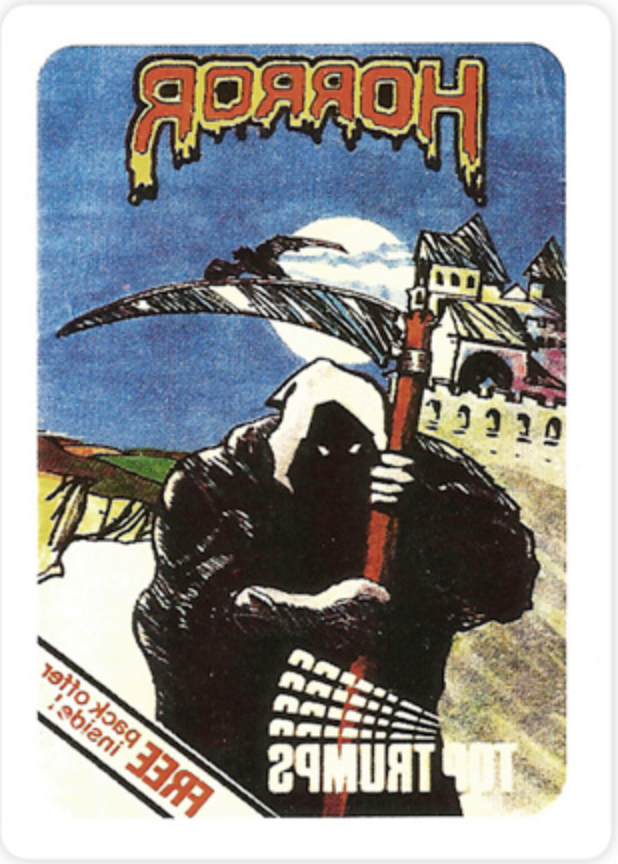
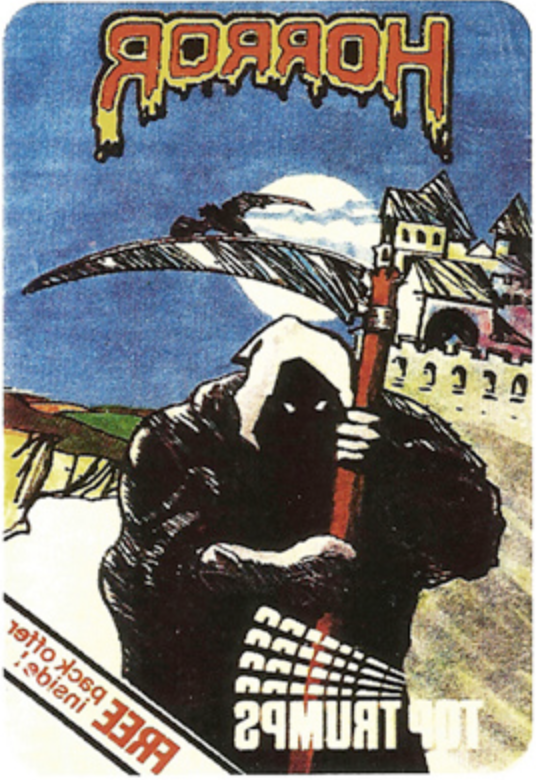
More work on card styling

diff --git a/public/js/app.js b/public/js/app.js
@@ -56012,7 +56012,7 @@ var Monster = function (_Component) {
                         'Physical Strength:',
                         __WEBPACK_IMPORTED_MODULE_0_react___default.a.createElement(
                             'button',
-                            { type: 'button', className: 'btn btn-danger', onClick: function onClick() {
+                            { type: 'button', className: 'btn attribute-button', onClick: function onClick() {
                                     return _this2.props.handleClick({ physical_strength: _this2.props.monster.physical_strength });
                                 } },
                             this.props.monster.physical_strength
@@ -56024,7 +56024,7 @@ var Monster = function (_Component) {
                         'Fear Factor:',
                         __WEBPACK_IMPORTED_MODULE_0_react___default.a.createElement(
                             'button',
-                            { type: 'button', className: 'btn btn-danger', onClick: function onClick() {
+                            { type: 'button', className: 'btn attribute-button', onClick: function onClick() {
                                     return _this2.props.handleClick({ fear_factor: _this2.props.monster.fear_factor });
                                 } },
                             this.props.monster.fear_factor
@@ -56036,7 +56036,7 @@ var Monster = function (_Component) {
                         'Killing Power:',
                         __WEBPACK_IMPORTED_MODULE_0_react___default.a.createElement(
                             'button',
-                            { type: 'button', className: 'btn btn-danger', onClick: function onClick() {
+                            { type: 'button', className: 'btn attribute-button', onClick: function onClick() {
                                     return _this2.props.handleClick({ killing_power: _this2.props.monster.killing_power });
                                 } },
                             this.props.monster.killing_power
@@ -56048,7 +56048,7 @@ var Monster = function (_Component) {
                         'Horror Rating:',
                         __WEBPACK_IMPORTED_MODULE_0_react___default.a.createElement(
                             'button',
-                            { type: 'button', className: 'btn btn-danger', onClick: function onClick() {
+                            { type: 'button', className: 'btn attribute-button', onClick: function onClick() {
                                     return _this2.props.handleClick({ horror_rating: _this2.props.monster.horror_rating });
                                 } },
                             this.props.monster.horror_rating

diff --git a/resources/assets/js/components/Monster.js b/resources/assets/js/components/Monster.js
@@ -11,16 +11,16 @@ export default class Monster extends Component {
                 <img className="card-img-top" src={"/img/" + this.props.monsterId + ".png"} alt=""/>
                 <ul>
                     <li>Physical Strength: 
-                    <button type="button" className="btn btn-danger" onClick={() => this.props.handleClick({physical_strength: this.props.monster.physical_strength})}>{this.props.monster.physical_strength}</button>
+                    <button type="button" className="btn attribute-button" onClick={() => this.props.handleClick({physical_strength: this.props.monster.physical_strength})}>{this.props.monster.physical_strength}</button>
                     </li>
                     <li>Fear Factor: 
-                    <button type="button" className="btn btn-danger" onClick={() => this.props.handleClick({fear_factor: this.props.monster.fear_factor})}>{this.props.monster.fear_factor}</button>
+                    <button type="button" className="btn attribute-button" onClick={() => this.props.handleClick({fear_factor: this.props.monster.fear_factor})}>{this.props.monster.fear_factor}</button>
                     </li>
                     <li>Killing Power:
-                    <button type="button" className="btn btn-danger" onClick={() => this.props.handleClick({killing_power: this.props.monster.killing_power})}>{this.props.monster.killing_power}</button>
+                    <button type="button" className="btn attribute-button" onClick={() => this.props.handleClick({killing_power: this.props.monster.killing_power})}>{this.props.monster.killing_power}</button>
                     </li>
                     <li>Horror Rating:
-                    <button type="button" className="btn btn-danger" onClick={() => this.props.handleClick({horror_rating: this.props.monster.horror_rating})}>{this.props.monster.horror_rating}</button>
+                    <button type="button" className="btn attribute-button" onClick={() => this.props.handleClick({horror_rating: this.props.monster.horror_rating})}>{this.props.monster.horror_rating}</button>
                     </li>
                 </ul>
             </div>

diff --git a/public/css/app.css b/public/css/app.css
@@ -10441,18 +10441,23 @@ h1 {
   position: relative;
   border-radius: 5px;
   background-color: #DDCA59;
-  border: 6px solid black;
+  border: 12px solid white;
+  margin: 0 3rem;
+  max-height: 700px;
 }
 
 .card.flipped {
   -webkit-transform: rotateY(180deg);
           transform: rotateY(180deg);
-  background-image: url(/images/back.png?d19e0032e73d86cee0174613943b4101);
-  background-size: cover;
+  background-image: url(/images/back.png?ebff3171a859b636a33afa25c31e2431);
+  background-size: 420px 700px;
+  padding: 2rem;
+  height: 700px;
+  max-height: 700px;
 }
 
 img.card-img-top {
-  margin: 0 0.5rem 0 0.3rem;
+  margin: 0;
   border: 2px solid #000000;
   -webkit-backface-visibility: hidden;
           backface-visibility: hidden;
@@ -10466,6 +10471,7 @@ img.card-img-top {
   padding: 0;
   -webkit-backface-visibility: hidden;
           backface-visibility: hidden;
+  margin: 0;
 }
 
 .card ul li {
@@ -10476,19 +10482,38 @@ img.card-img-top {
   -webkit-box-pack: justify;
       -ms-flex-pack: justify;
           justify-content: space-between;
-  margin: 1rem 0;
+  margin: 0;
+  padding: 0.25rem 0.5rem;
   font-size: 1rem;
-  color: #f50028;
+  color: #000000;
+  font-weight: 800;
+  border: 6px solid #000000;
+  -webkit-box-align: center;
+      -ms-flex-align: center;
+          align-items: center;
+}
+
+.card ul li:first-of-type {
+  border-top: 12px solid #000000;
 }
 
 .card-title {
   text-align: center;
   color: black;
   padding: 0.5rem 1rem;
+  margin-bottom: 0;
   -webkit-backface-visibility: hidden;
           backface-visibility: hidden;
   background-color: #DDCA59;
   border-bottom: 6px solid black;
+}
+
+.attribute-button {
+  font-size: 1rem;
+  color: #000000;
+  background-color: #DDCA59;
+  border: none;
+  font-weight: 800;
 }
 
 .modal-message {

diff --git a/resources/assets/sass/app.scss b/resources/assets/sass/app.scss
@@ -34,45 +34,67 @@ h1 {
   // background-image: url("../../../public/img/front-background.jpg");
   border-radius: 5px;
   background-color: #DDCA59;
-  border: 6px solid black;
+  border: 12px solid white;
+  margin: 0 3rem;
+  max-height: 700px;
 }
 
 .card.flipped {
   transform: rotateY(180deg);
   background-image: url("../../../public/img/back.png");
-  background-size: cover;
+  background-size: 420px 700px;
+  padding: 2rem;
+  height: 700px;
+  max-height: 700px;
 }
 
 img.card-img-top {
-  margin: 0 0.5rem 0 0.3rem;
+  margin: 0;
   border: 2px solid #000000;
   backface-visibility: hidden;
   align-self: center;
   width: 100%;
-  height: auto;;
+  height: auto;
 }
 
 .card ul {
   padding: 0;
   backface-visibility: hidden;
+  margin: 0;
 }
 
 .card ul li {
   padding: 0 3rem;
   display:flex;
   justify-content: space-between;
-  margin: 1rem 0;
+  margin: 0;
+  padding: 0.25rem 0.5rem;
   font-size: 1rem;
-  color: #f50028;
+  color: #000000;
+  font-weight: 800; 
+  border: 6px solid #000000;
+  align-items: center;
+  &:first-of-type{
+    border-top: 12px solid #000000;
+  }
 }
 
 .card-title {
   text-align: center;
   color: black;
   padding: 0.5rem 1rem;
+  margin-bottom: 0;
   backface-visibility: hidden;
   background-color: #DDCA59;
   border-bottom: 6px solid black;
+}
+
+.attribute-button {
+  font-size: 1rem;
+  color: #000000;
+  background-color: #DDCA59;
+  border: none;
+  font-weight: 800;
 }
 
 .modal-message {
